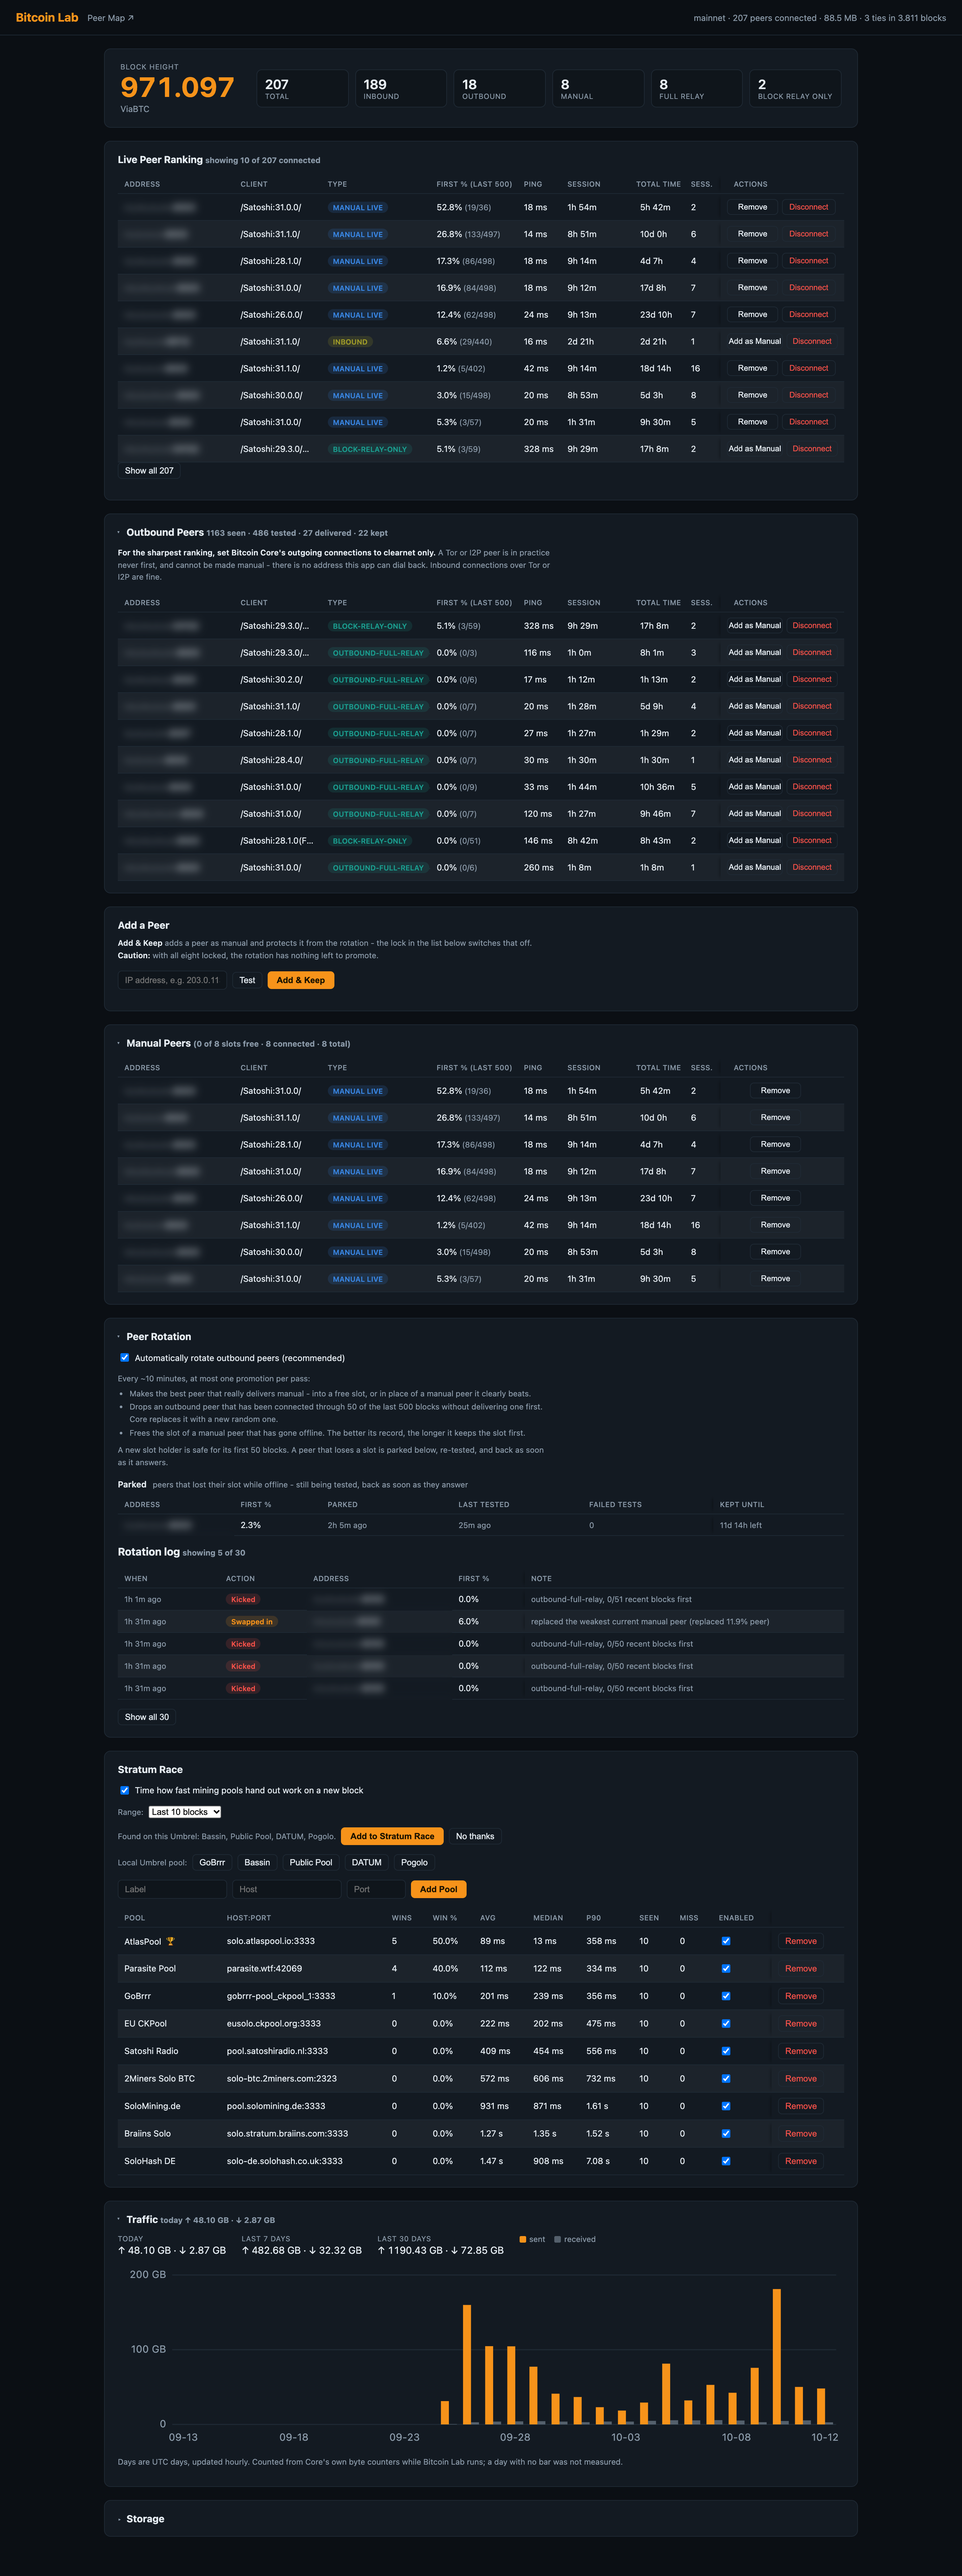
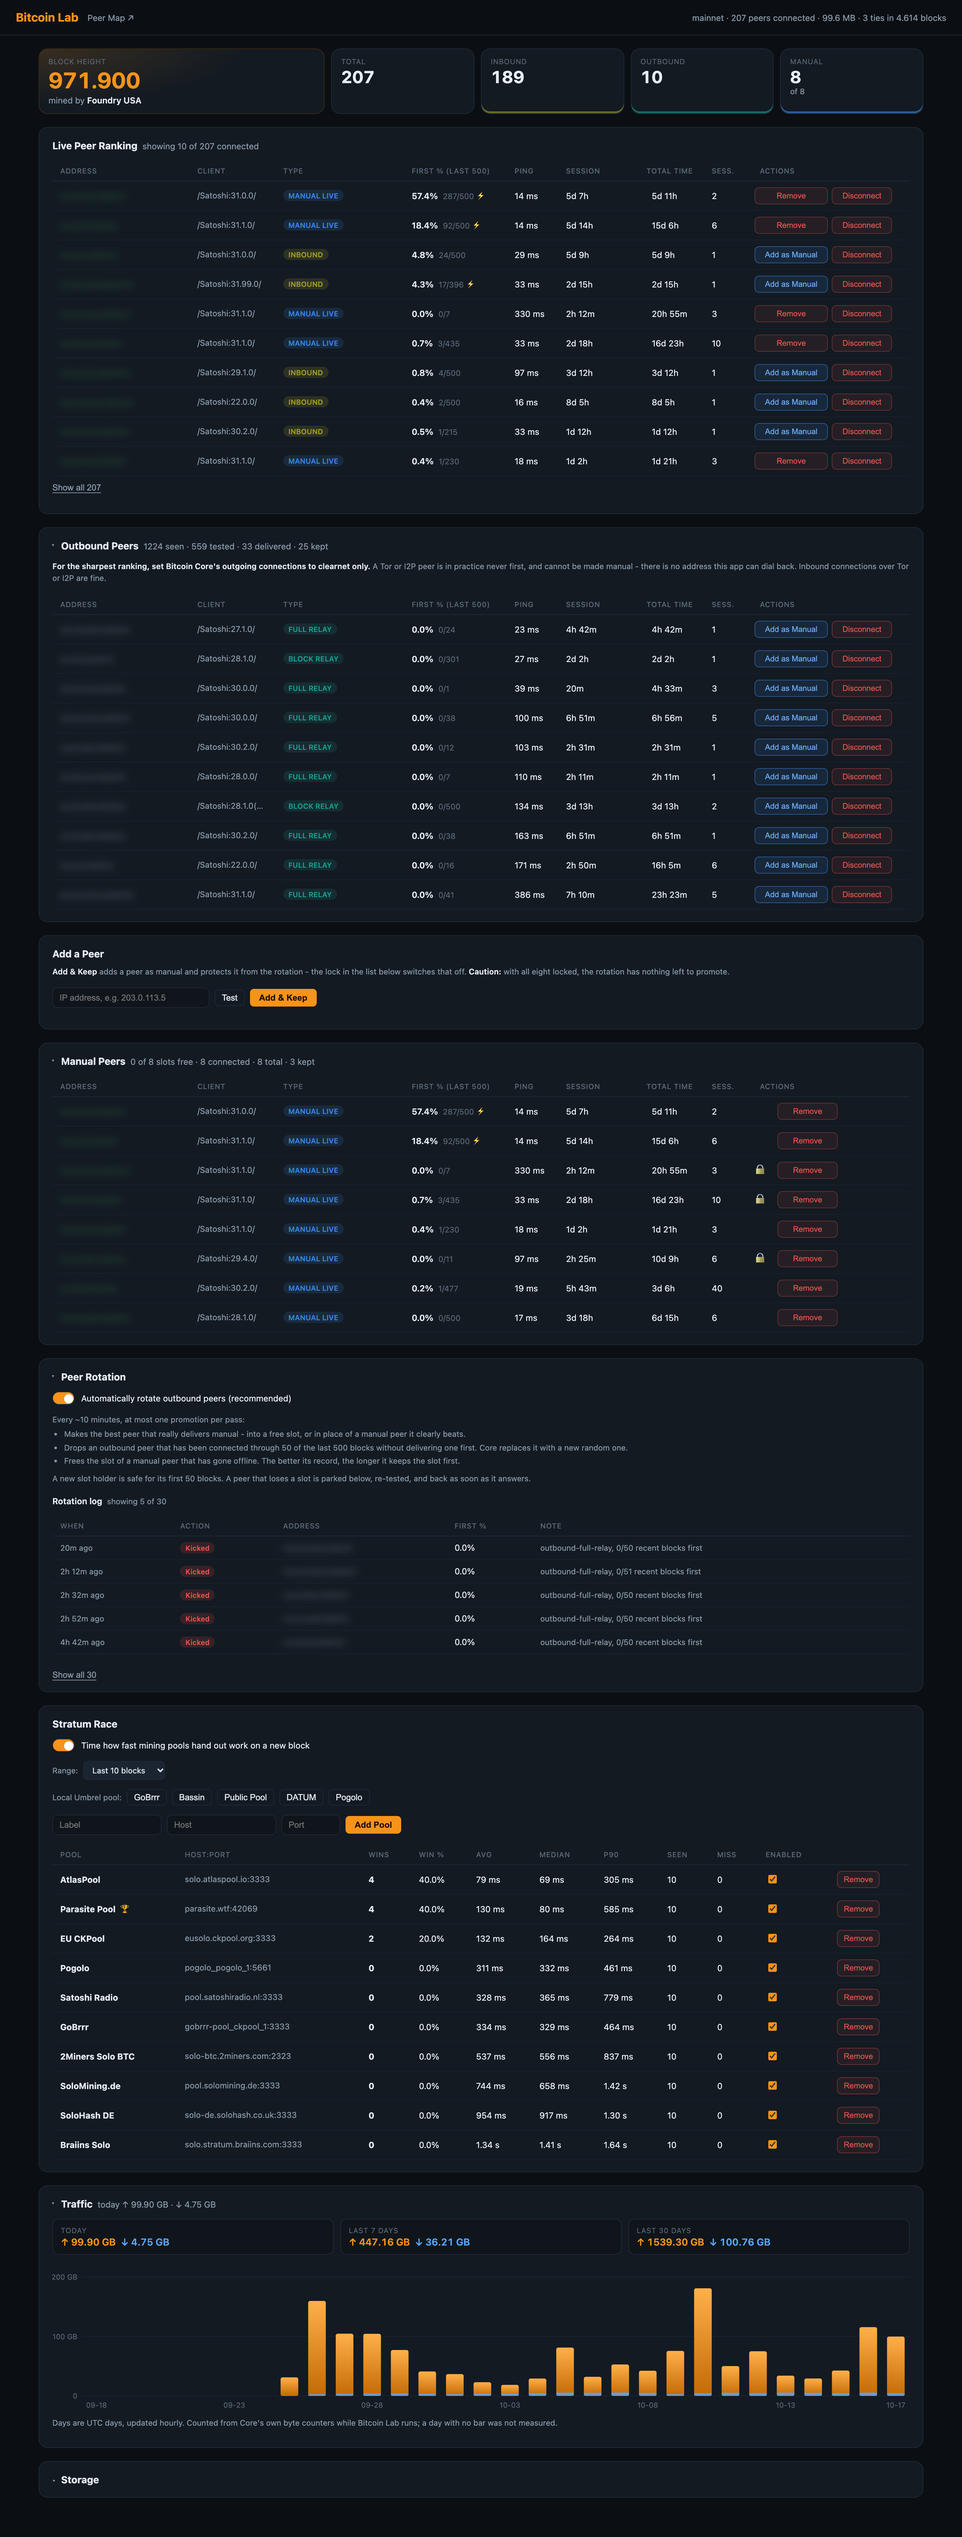
Screenshots of Bitcoin Lab 2.0.1 and Peer Map 2.0.0
One capture per app from a real node, addresses blurred, cut into the
gallery and README pictures as RELEASING.md describes.

diff --git a/RELEASING.md b/RELEASING.md
@@ -181,12 +181,12 @@ moment, the same block and the same peers. Do not replace one picture on its own
 take a new capture and cut them all. The same goes for Peer Map's pictures below.
 
 Peer Map's gallery is two files, `bitcoinlab-peermap/1.png` (header, newest block,
-map) and `2.png` (the Manual table and the start of Inbound); `1.png` is also the
+map) and `2.png` (the start of the Inbound table, the first group since 2.0.0); `1.png` is also the
 Peer Map header image in this repository's `README.md`, and
 `bitcoinlab-peermap/overview.png` (the top of the page, 2940 × 4398) heads the
 Peer Map README. All three come from one capture.
 
-The pictures of 12 October 2026 (block 971,097) were captured from the real
+The pictures of 17 October 2026 (Bitcoin Lab 2.0.1 at block 971,899, Peer Map 2.0.0 at block 971,900) were captured from the real
 dashboards with Playwright (1470 CSS px wide at 2×, dark mode; only the addresses
 themselves replaced and blurred before the capture, so location and operator stay
 readable) and cut with `ffmpeg`.
